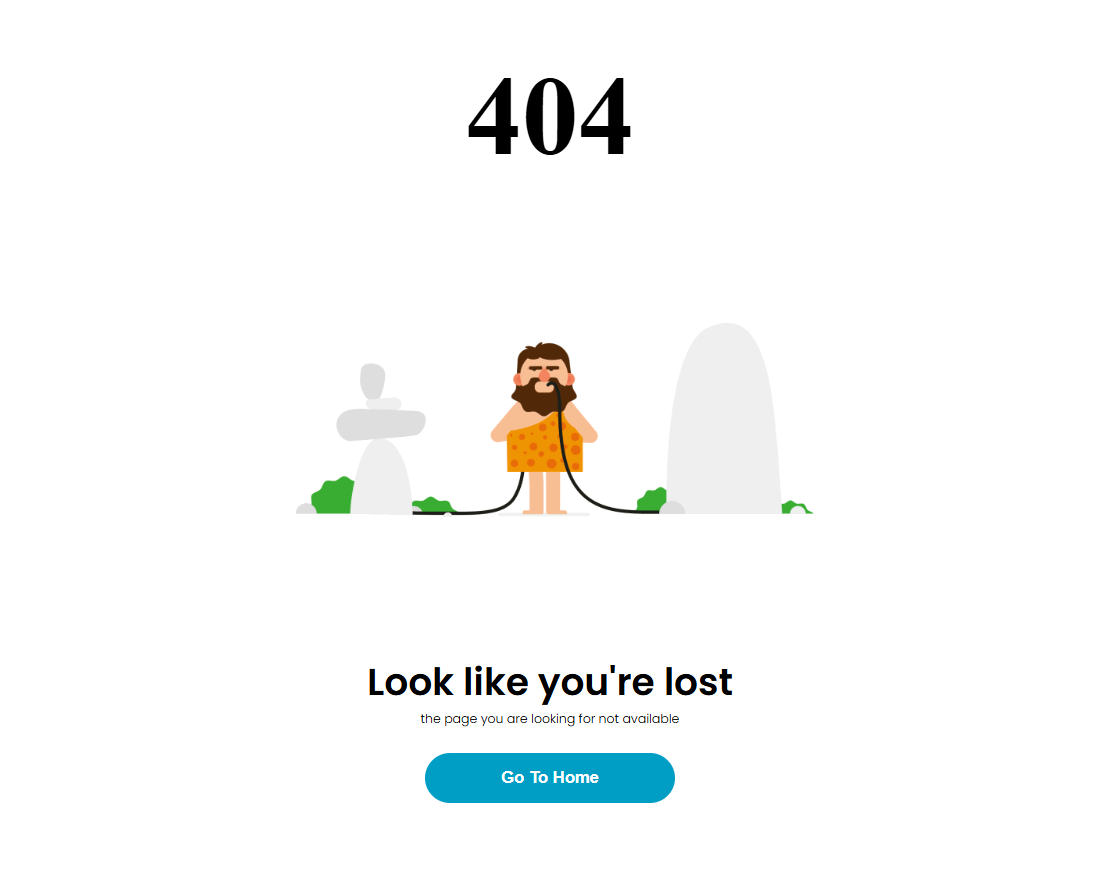
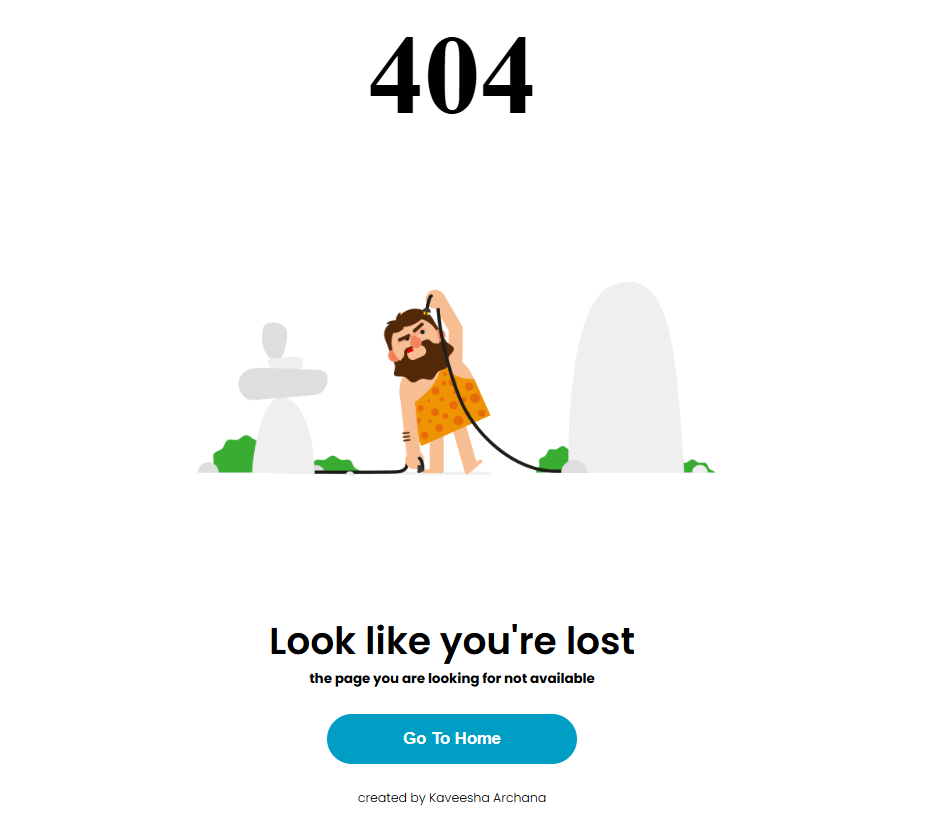
readme file updated

diff --git a/index.html b/index.html
@@ -14,8 +14,9 @@
         <img src="gif/error.gif" alt="">
         <div class="text">
             <h2>Look like you're lost</h2>
-            <p>the page you are looking for not available</p>
+            <h6>the page you are looking for not available</h6>
             <button href="#">Go To Home</button>
+            <p>created by Kaveesha Archana</p>
         </div>
        
     </div>

diff --git a/README.md b/README.md
@@ -3,6 +3,6 @@
 <div>
     <h1 align="center">The final look</h1>
     <div align="center">
-        <img src="gif/error.gif">
+        <img src="404 Error">
     </div>
 </div>
